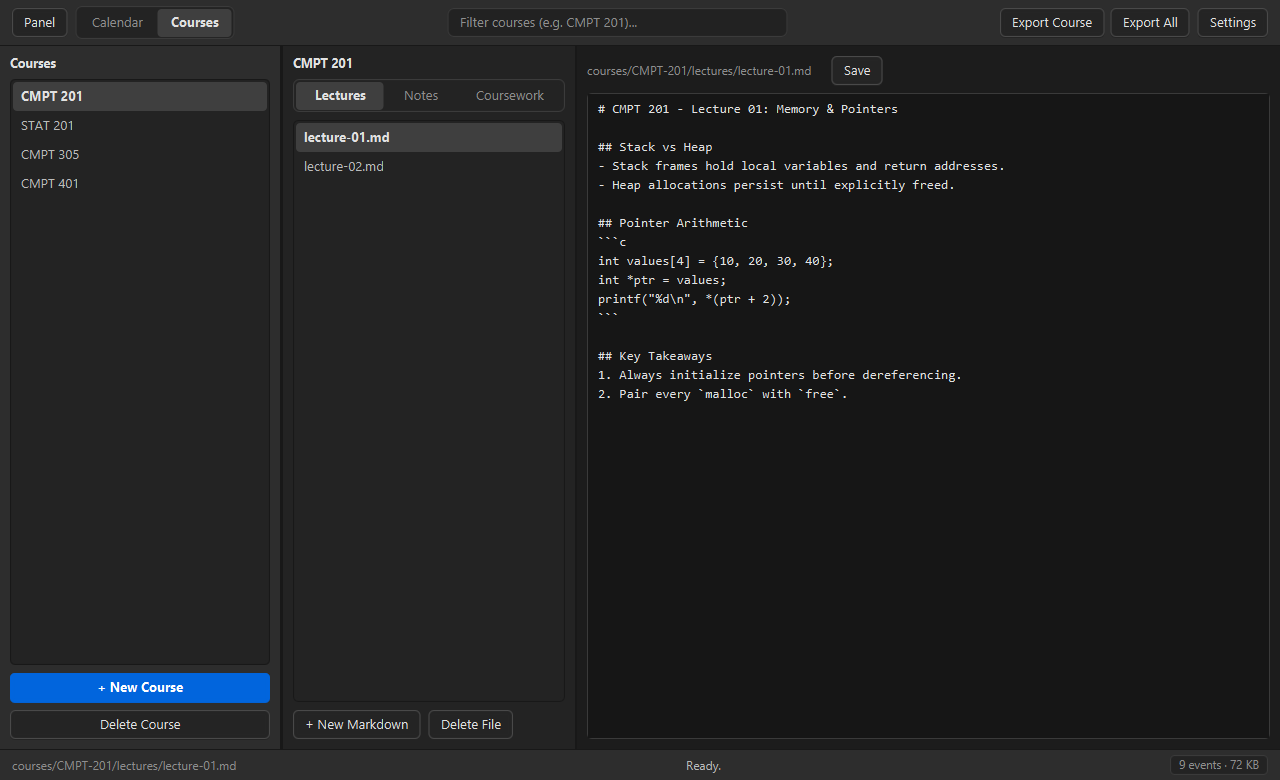
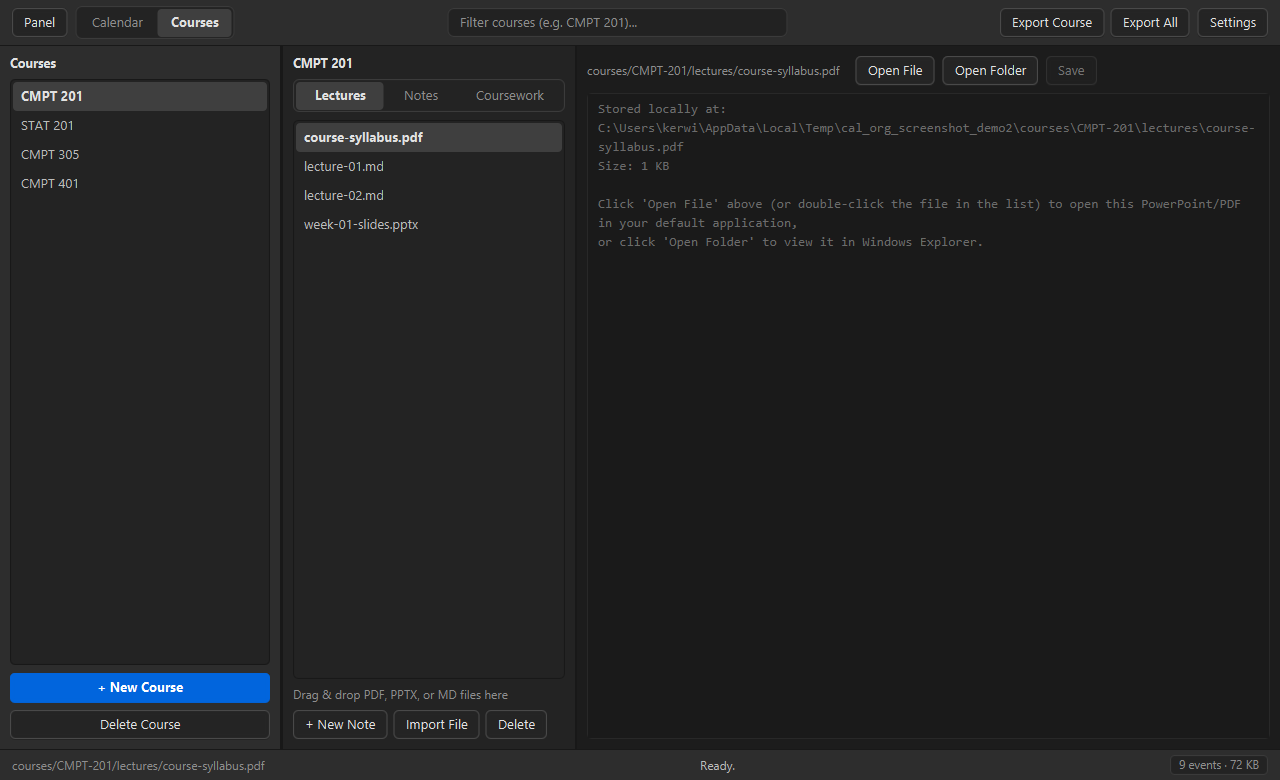
update readme and screenshot for course file attachments

diff --git a/README.md b/README.md
@@ -3,7 +3,7 @@
 A local-first Windows desktop app in two parts:
 
 1. **Calendar Builder**: Enter plain sentences like `"i work mon-thurs 7-6pm"` or `"i want to work out and study, i'm busy at 8pm for 2 hours, and i want to sleep at 12"`. Fixed blocks, recurring blocks, sleep hours, and workout/study goals are saved locally in SQLite and scheduled deterministically without overlaps. Supports importing Google Calendar `.ics` exports (from file or pasted text) and exporting back to `.ics`.
-2. **Course Organizer**: Organizes courses numerically by course number (for example `MATH 99`, `CMPT 201`, `STAT 201`, `CMPT 1000`) with real disk folders and markdown files (`courses/CMPT-201/lectures/lecture-01.md`, `notes/`, `coursework/`). Exports a single course or all courses into a `.zip` of clean markdown (`README.md`, normalized per-section `.md` files, and `combined.md`) ready to pass to another LLM for studying.
+2. **Course Organizer**: Organizes courses numerically by course number (for example `MATH 99`, `CMPT 201`, `STAT 201`, `CMPT 1000`) with real disk folders (`courses/CMPT-201/lectures/`, `notes/`, `coursework/`). Supports writing markdown notes and **dragging & dropping PowerPoint (`.pptx`/`.ppt`), PDF (`.pdf`), or document files** directly into a course section to store them locally (with one-click **Open File** and **Open Folder** buttons). Exports a single course or all courses into a `.zip` of clean markdown (`README.md`, normalized per-section `.md` files, and `combined.md`) ready to pass to another LLM for studying.
 
 ## Screenshots
 
